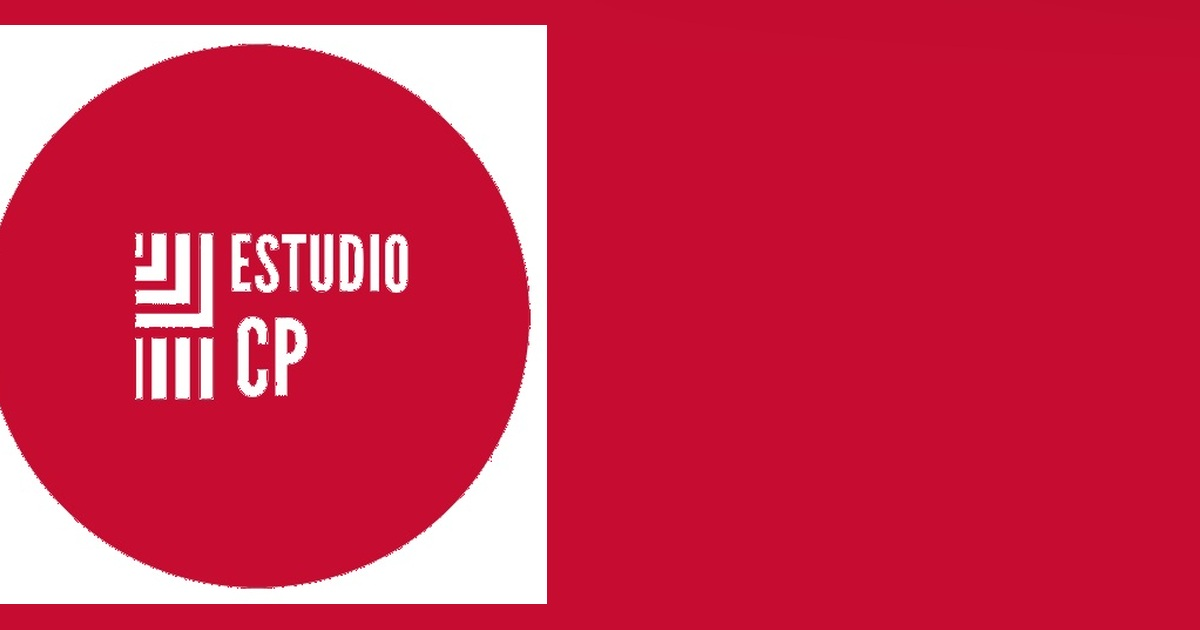
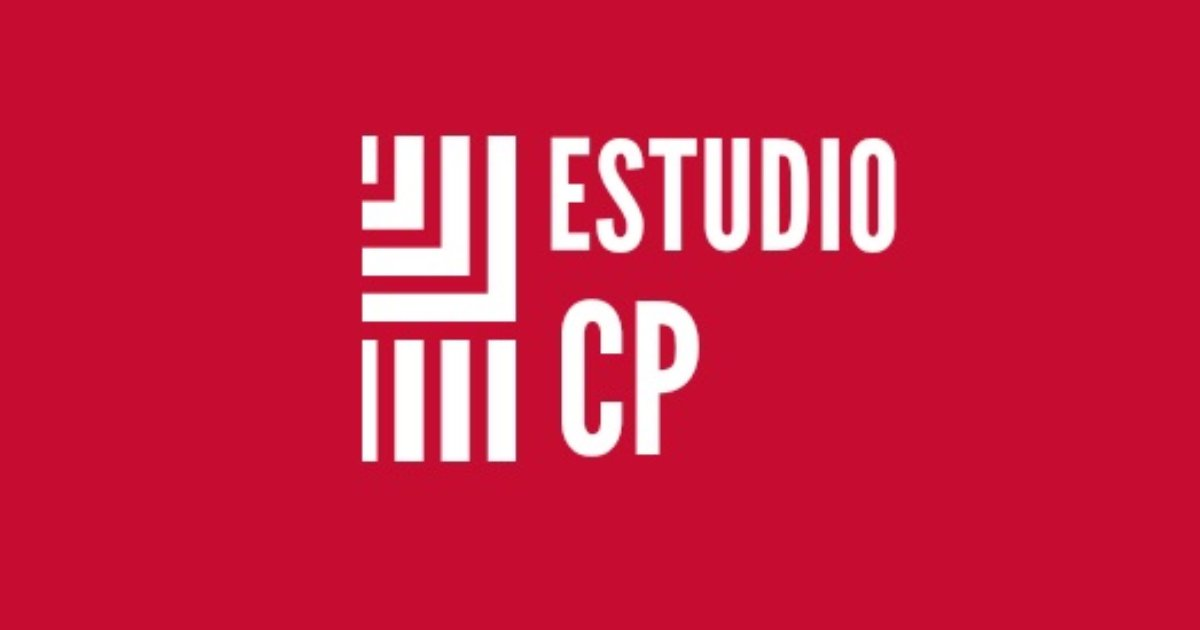
update

Changed region(s): [[0.0, 0.0302, 0.7708, 0.9651]]

diff --git a/index.html b/index.html
@@ -9,17 +9,17 @@
 <!-- Open Graph (WhatsApp / Facebook) -->
 <meta property="og:type" content="website" />
 <meta property="og:title" content="Estudio CP — Escribanía & Estudio Contable" />
-<meta property="og:description" content="Apertura de empresas. Trámites en BPS y DGI. Gral. Urquiza 2727 esq. Garibaldi." />
-<meta property="og:image" content="https://chrisbalmativola.github.io/estudiocp/assets/og-image.jpg" />
+<meta property="og:description" content="Apertura de empresas. Trámites en BPS y DGI. Tel: +598 2484 6270. Gral. Urquiza 2727 esq. Garibaldi." />
+<meta property="og:image" content="https://chrisbalmativola.github.io/estudiocp/assets/og-image.png" />
+<meta property="og:image:secure_url" content="https://chrisbalmativola.github.io/estudiocp/assets/og-image.png" />
+<meta property="og:image:type" content="image/png" />
 <meta property="og:image:width" content="1200" />
 <meta property="og:image:height" content="630" />
-<meta property="og:image:secure_url" content="https://chrisbalmativola.github.io/estudiocp/assets/og-image.jpg" />
-<meta property="og:image:type" content="image/jpg" />
 
 <!-- Twitter (muchas apps lo usan igual) -->
 <meta name="twitter:card" content="summary_large_image" />
 <meta name="twitter:title" content="Estudio CP — Escribanía & Estudio Contable" />
-<meta name="twitter:description" content="Apertura de empresas. Trámites en BPS y DGI. Montevideo." />
+<meta name="twitter:description" content="Apertura de empresas. Trámites en BPS y DGI. Tel: +598 2484 6270. Gral. Urquiza 2727 esq. Garibaldi." />
 <meta name="twitter:image" content="https://chrisbalmativola.github.io/estudiocp/assets/og-image.jpg" />
 
   <link rel="stylesheet" href="css/styles.css" />
